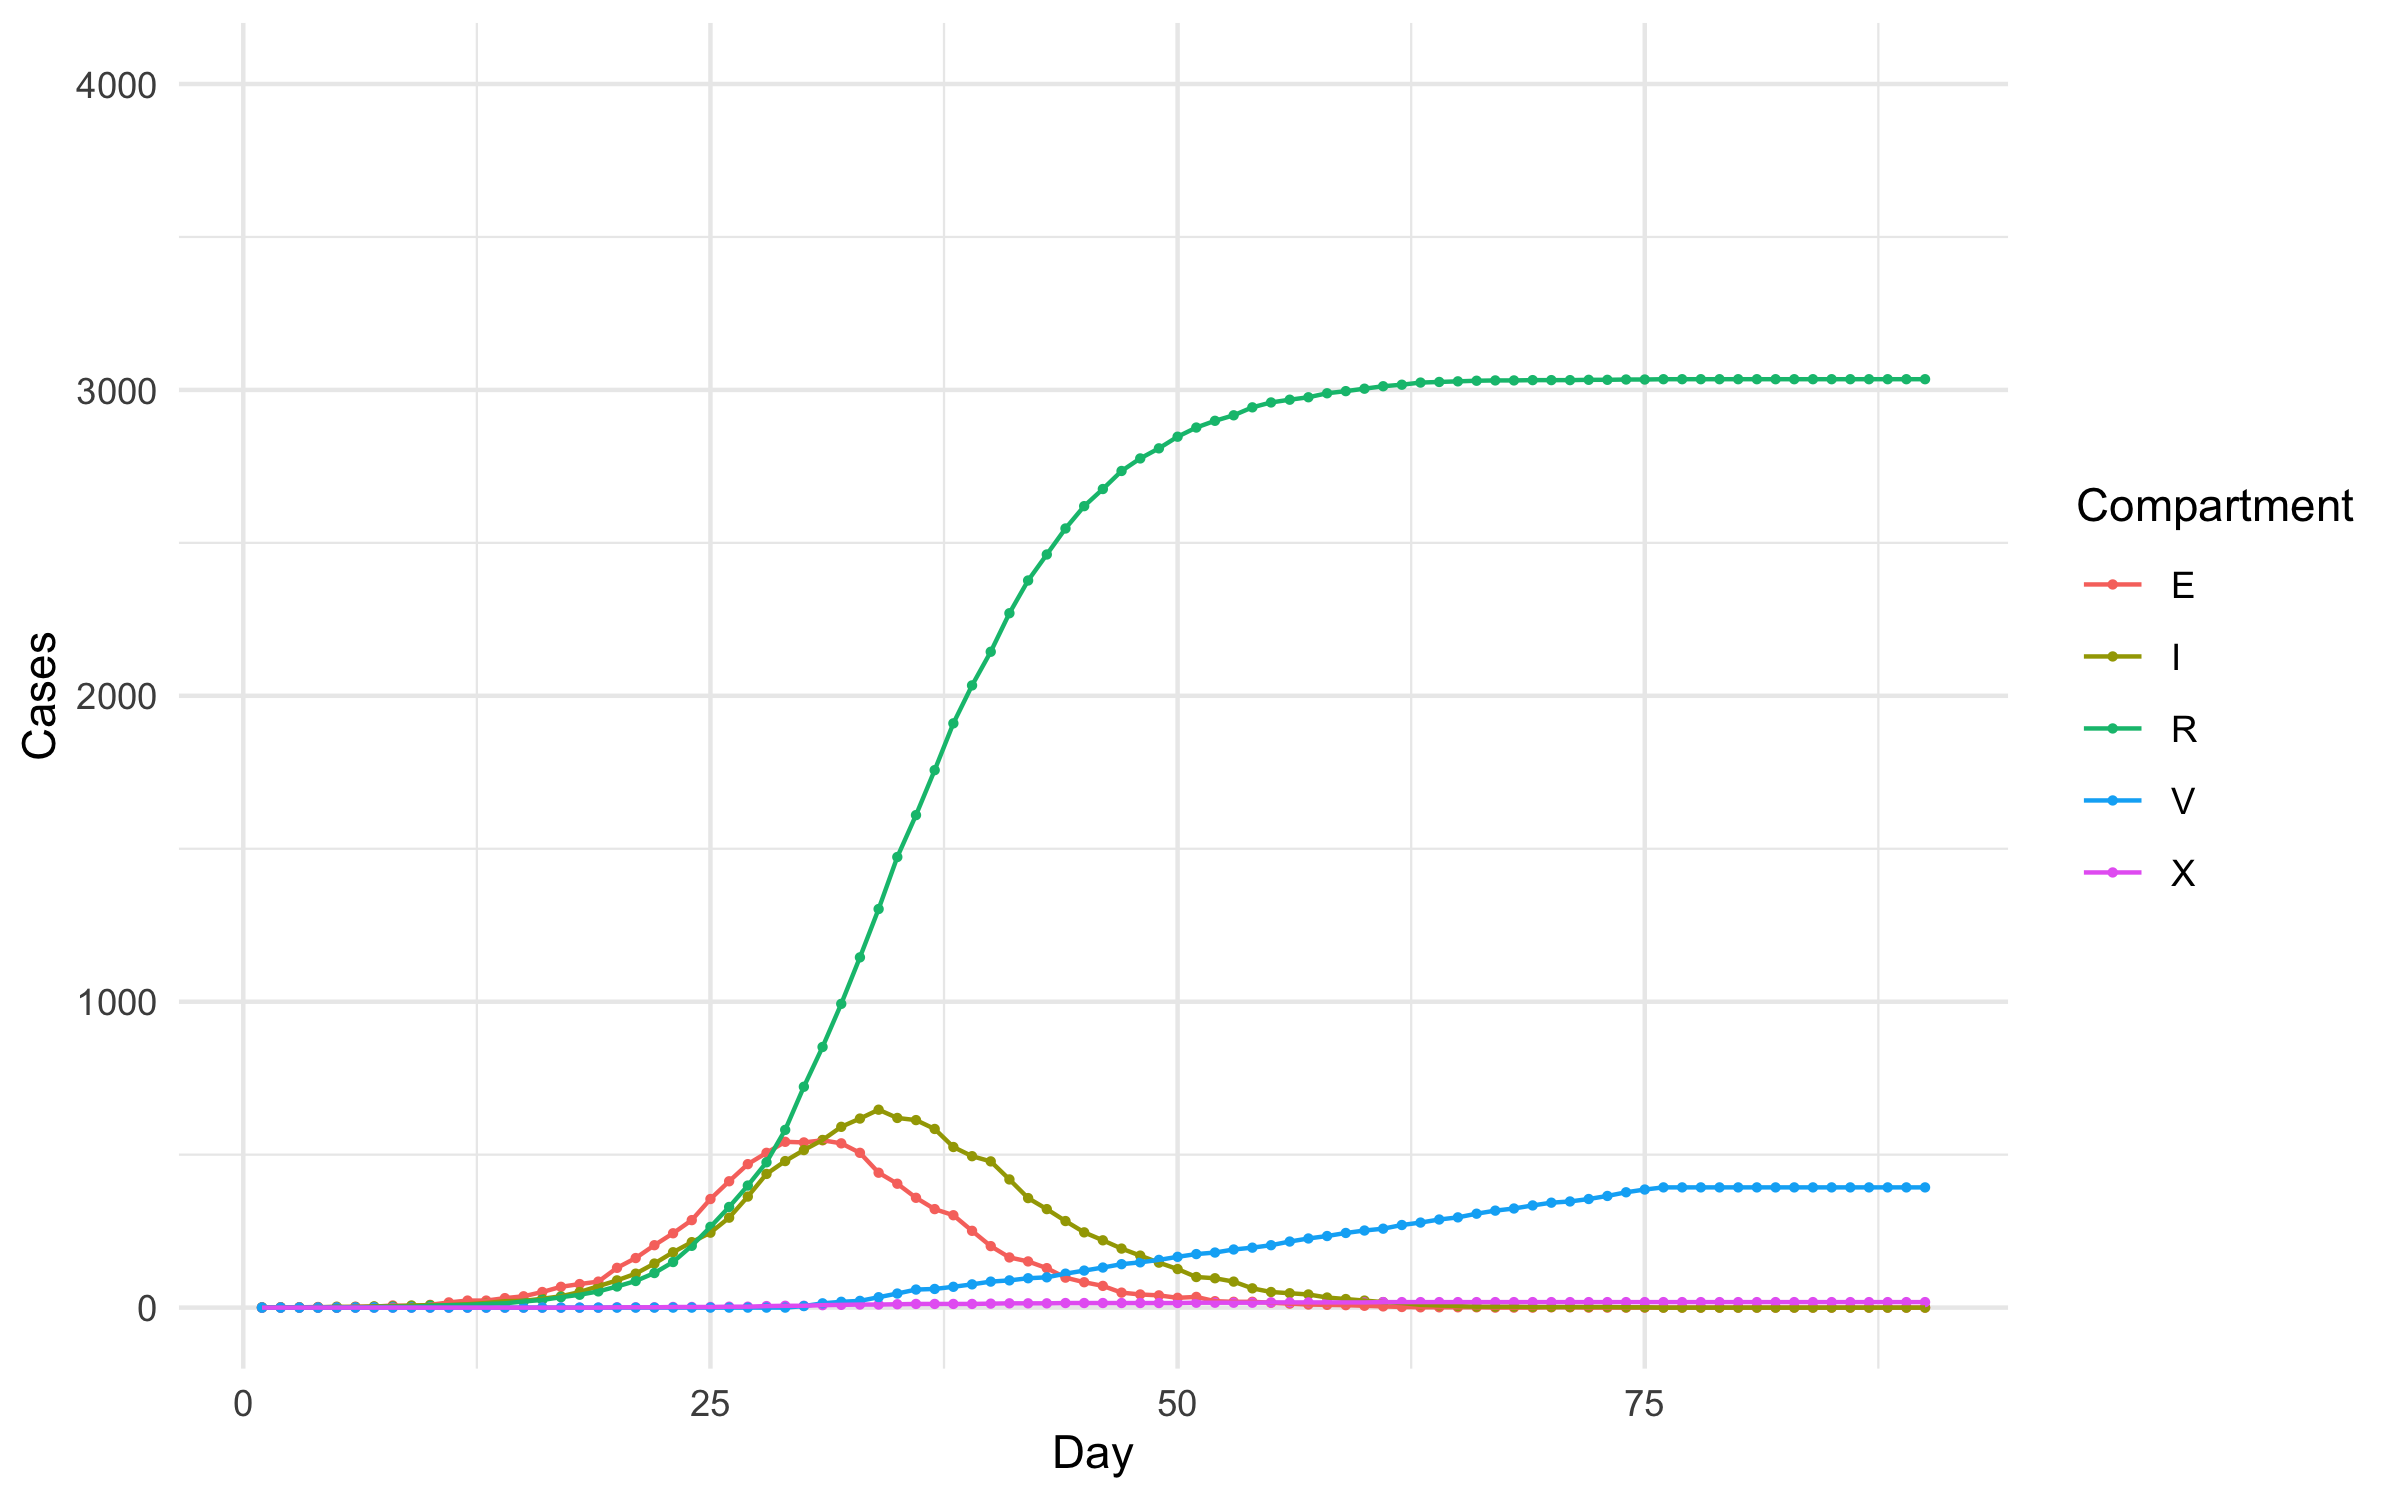
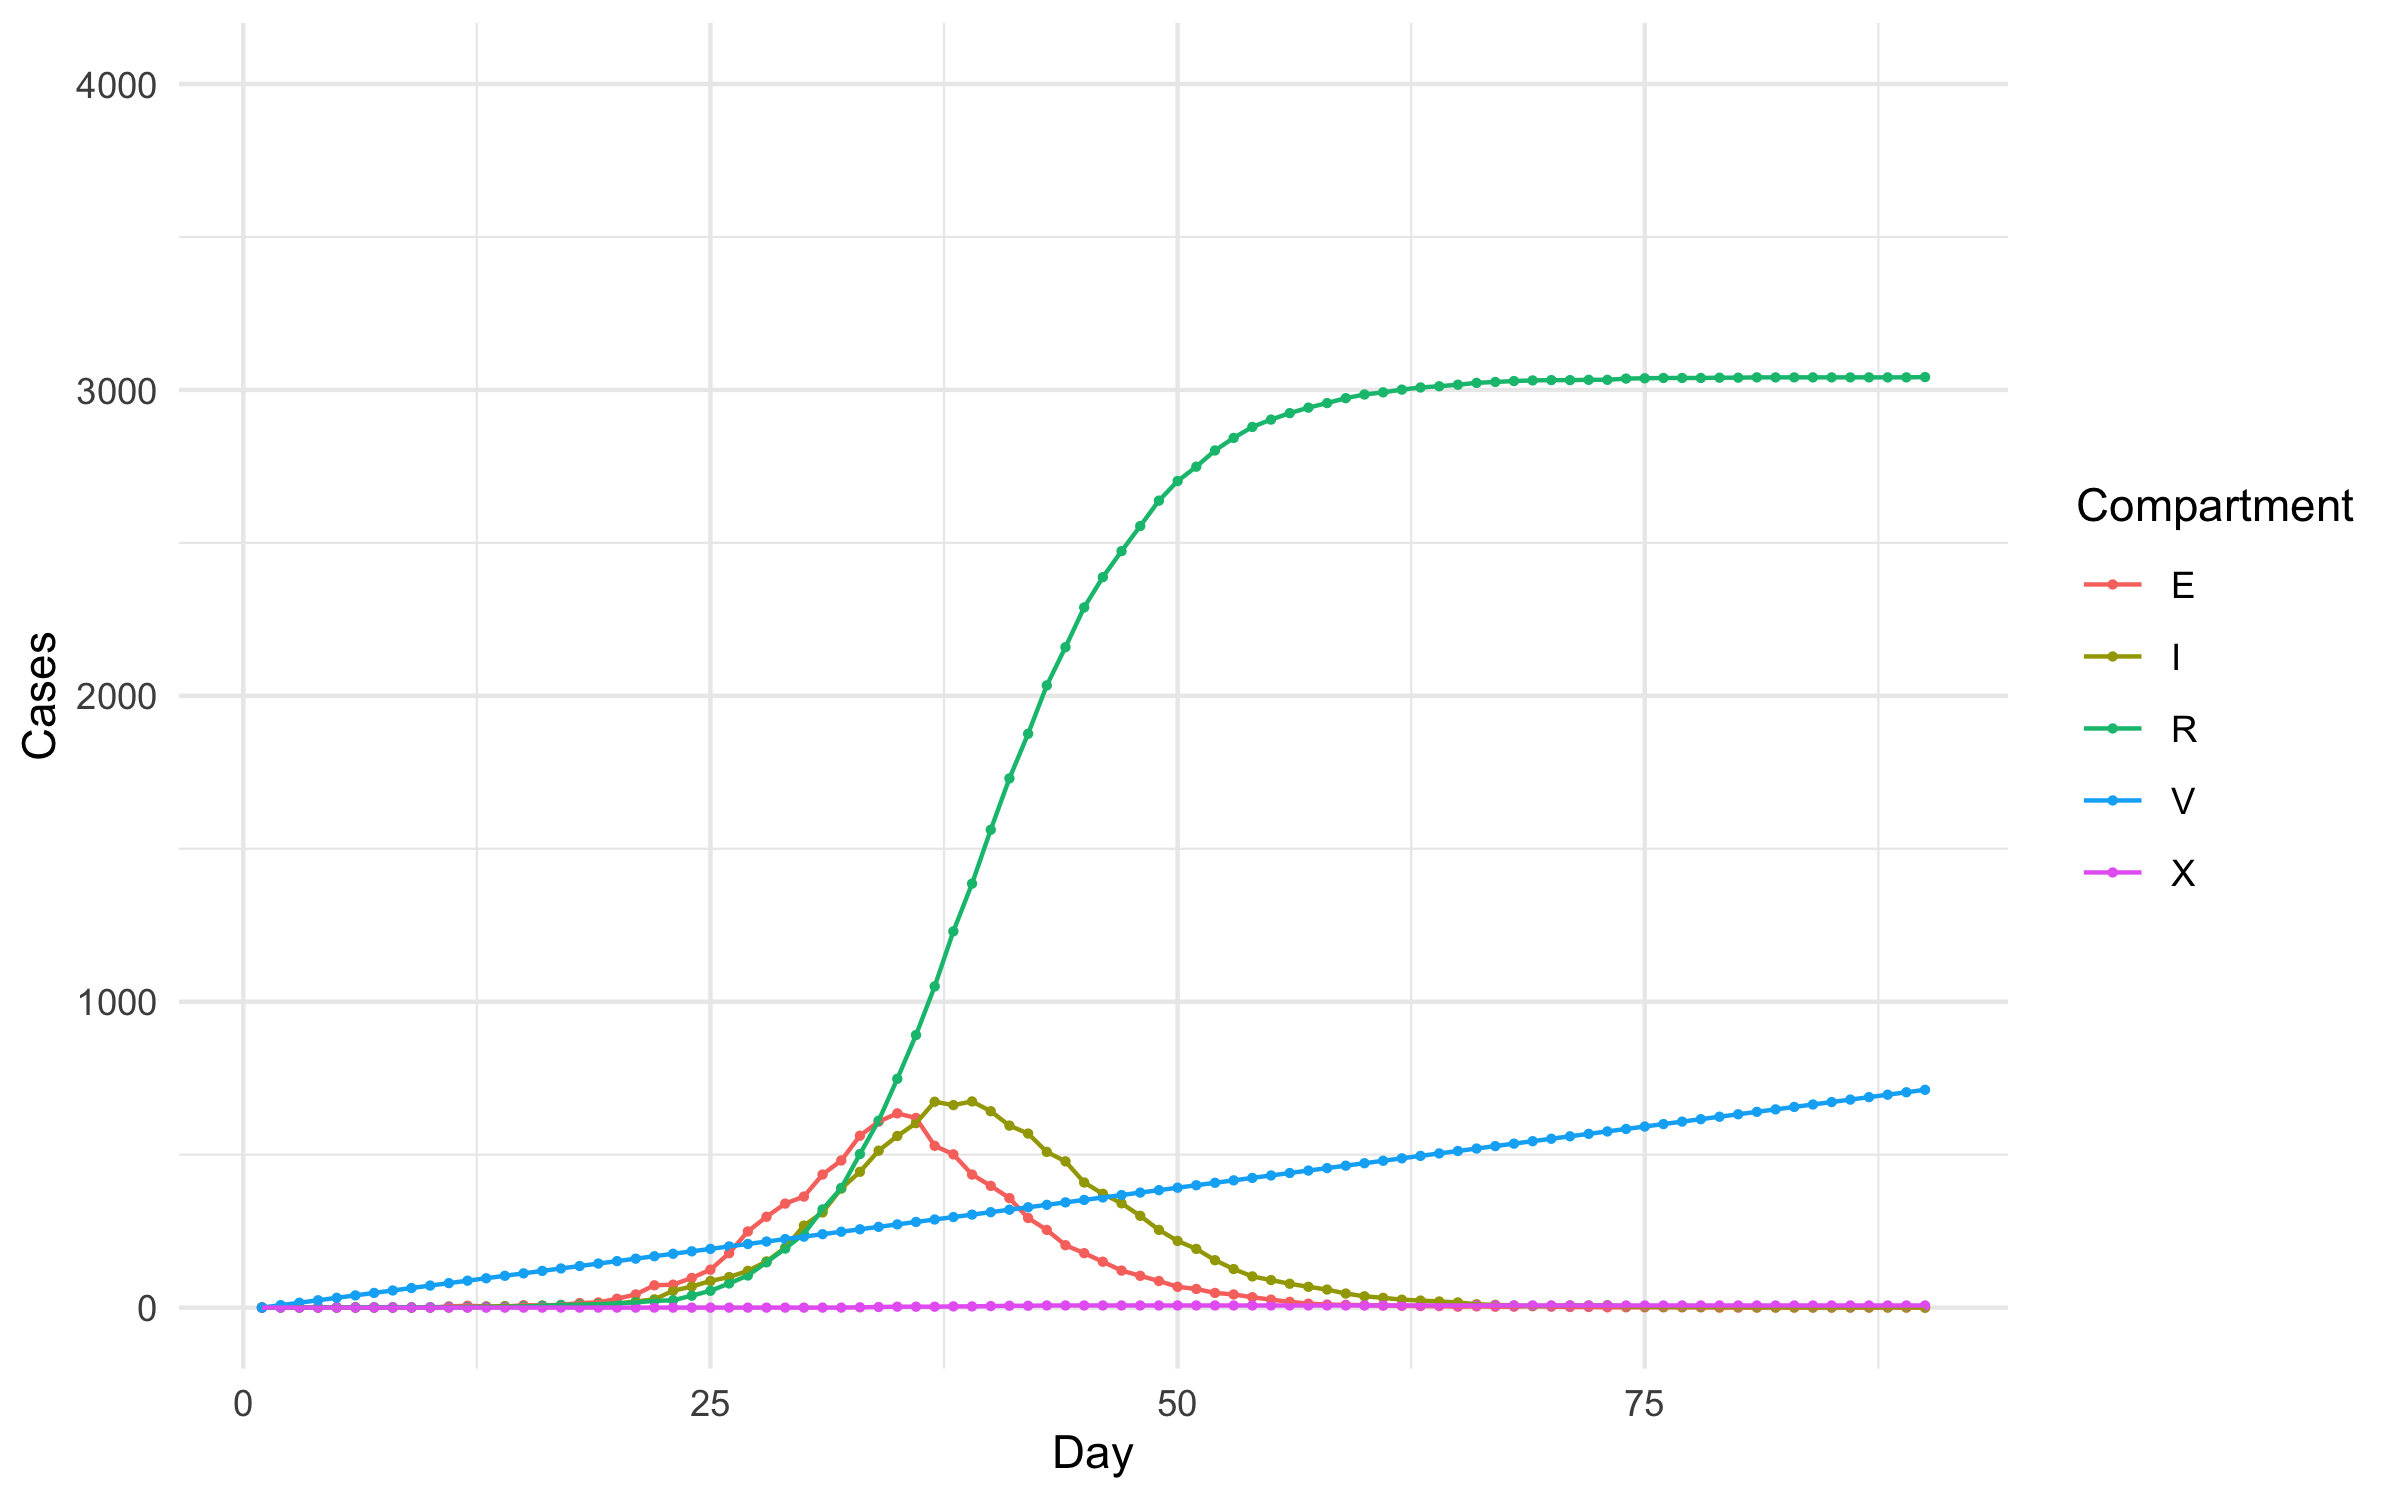
implemented prioritized vaccination.

diff --git a/README.md b/README.md
@@ -5,8 +5,9 @@ Simulation code is in code/sim_epi.R.
 
 To do: 
 - [x] Fix infection probabilities (product, not sum)
-- [ ] Implement prioritized vaccination (currently just random)
+- [x] Implement prioritized vaccination (currently just random)
 - [ ] Implement infection and transmission blocking 
 - [ ] Implement correlation between contacts and risk (use RR defined from reference at the mean number of contacts)
+- [ ] Simulate many epidemics and summarize
  
 ![alt text](https://github.com/skissler/PIHVaxStrategy/blob/dev_DefineSeverity/figures/casecounts.png)
